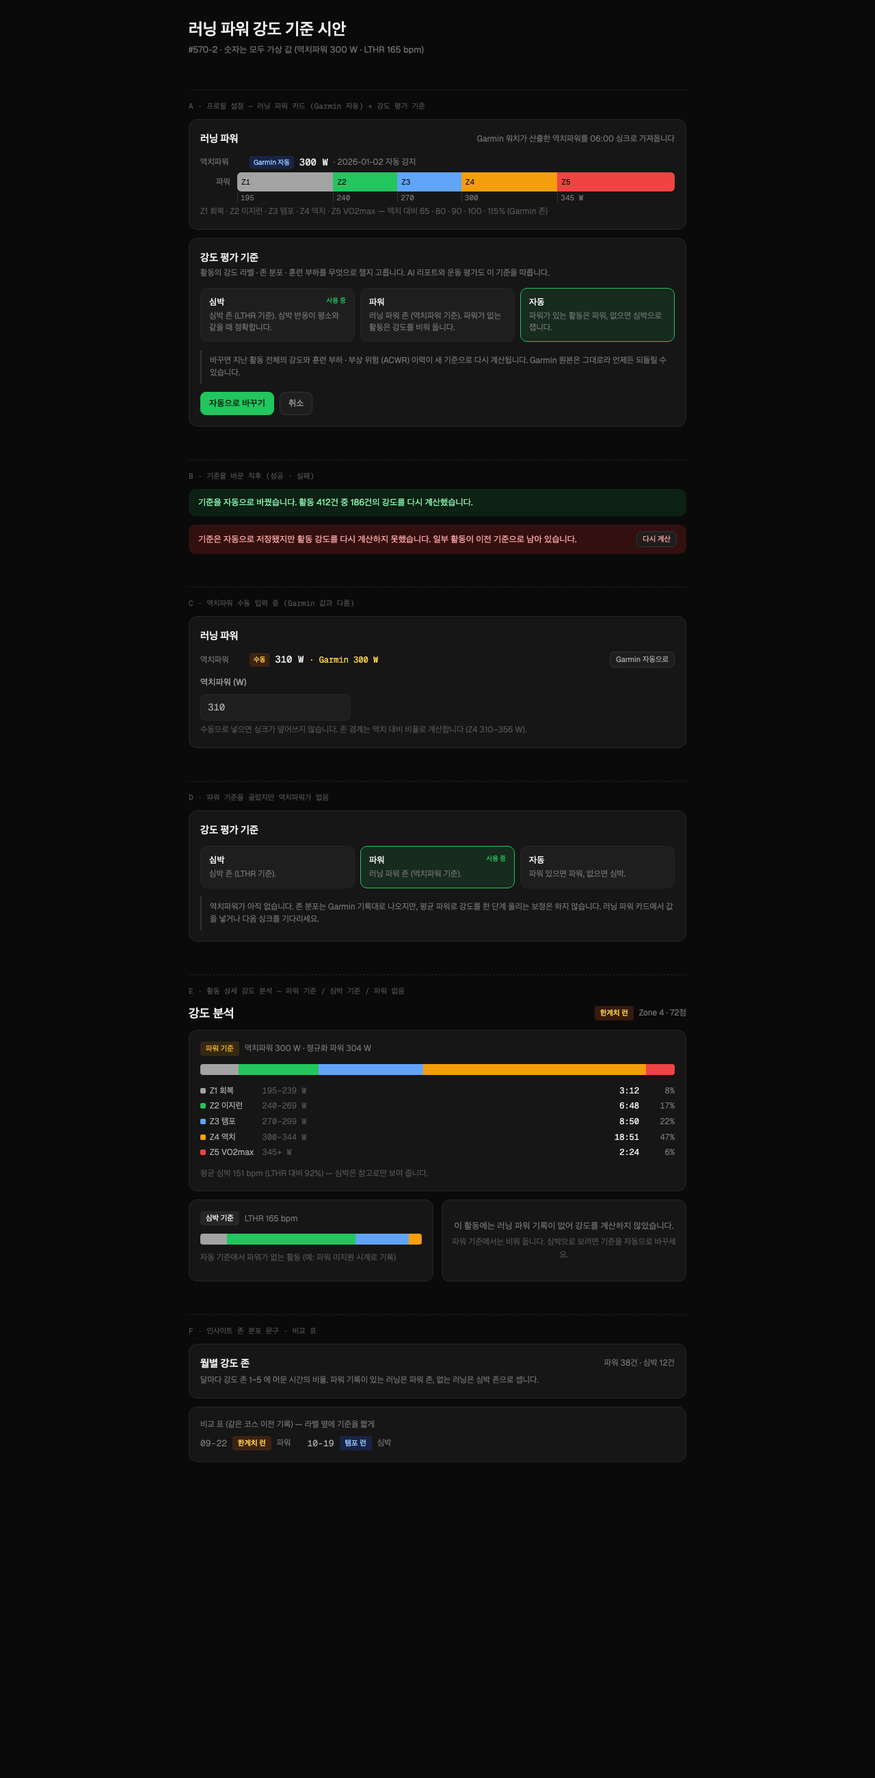
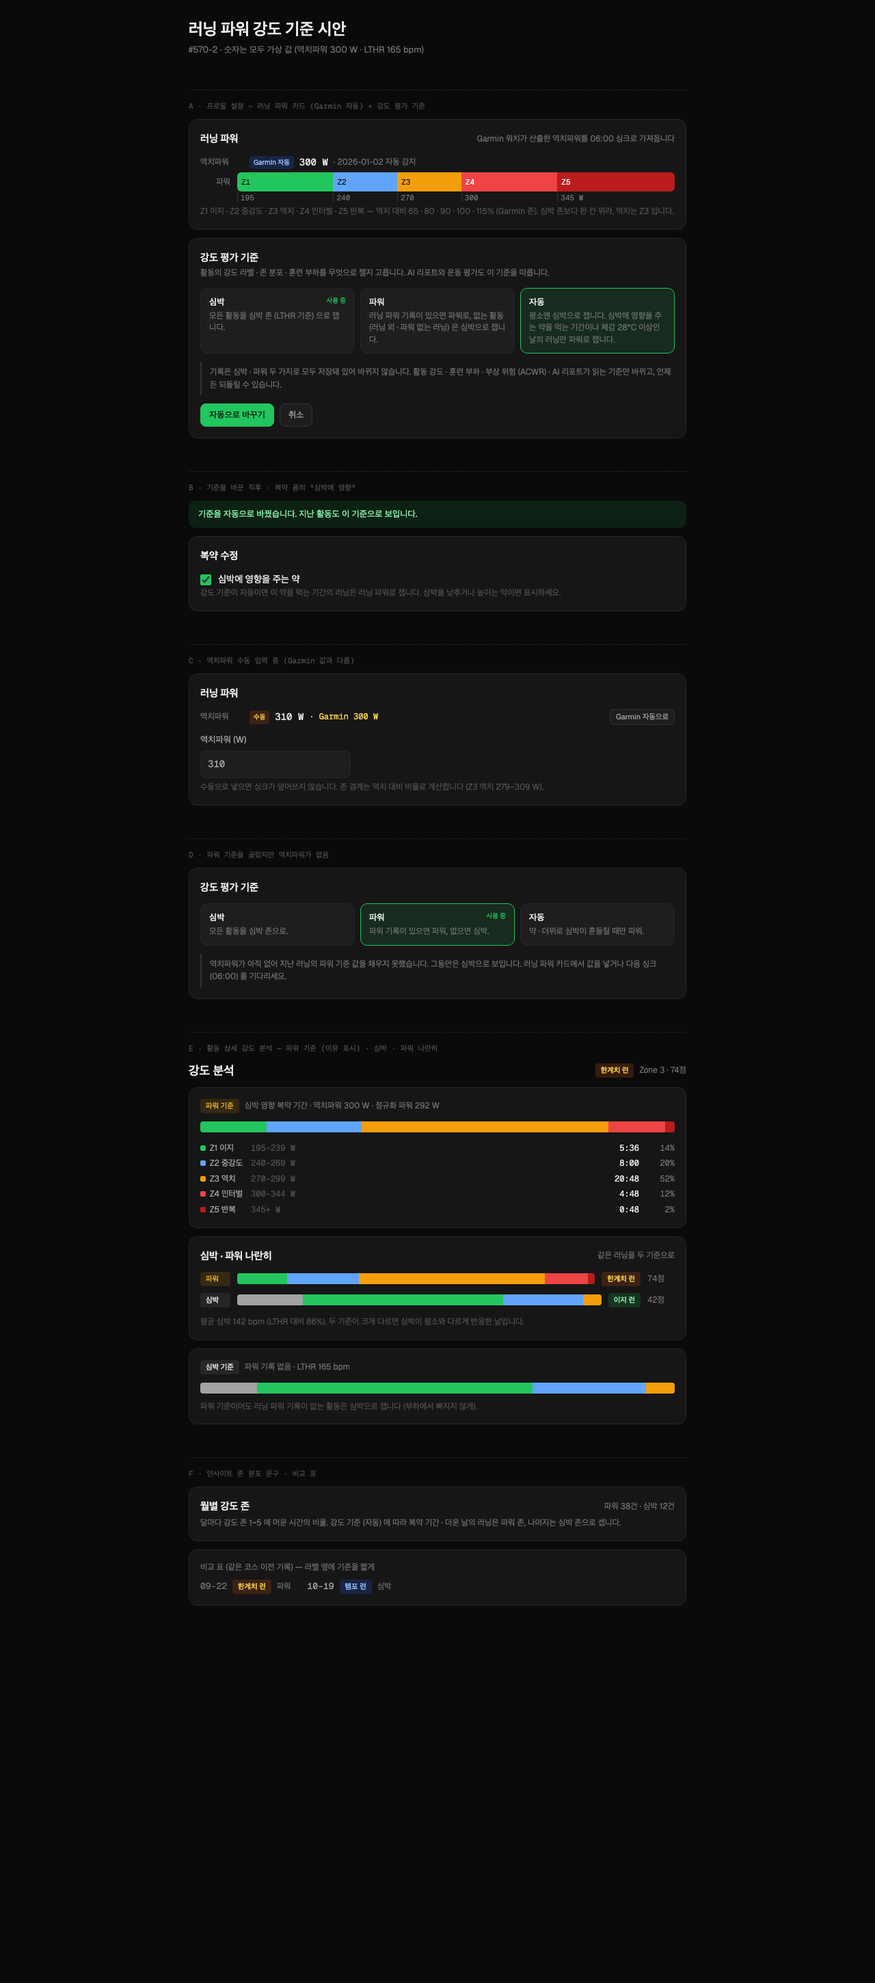
docs(design): 시안 갱신 — 두 기준 저장 · 파워 우선 · 자동 (복약 · 더위) · 나란히 보기 · 파워 존 의미 색 (#570)
Claude-Session: https://claude.ai/code/session_01KSZE3EkJYig9oqT97tFjun

diff --git a/docs/designs/570-running-power-intensity/preview.html b/docs/designs/570-running-power-intensity/preview.html
@@ -50,12 +50,15 @@
   .ruler .unit { font-size:12px; color:var(--sub); text-align:right; }
   .ruler .bar { display:grid; grid-template-columns:var(--cols); height:28px; border-radius:6px; overflow:hidden; }
   .ruler .seg { position:relative; display:flex; align-items:center; padding-left:6px; font:11px var(--mono); color:#0a0a0a; }
+  .ruler .seg.pz4, .ruler .seg.pz5 { color:#fff; }
   .ruler .seg span { white-space:nowrap; overflow:hidden; }
   .ruler .ticks { display:grid; grid-template-columns:var(--cols); margin-left:54px; font:11px var(--mono); color:var(--sub); }
   .ruler .ticks span { border-left:1px solid var(--border-hover); padding-left:4px; padding-top:2px; }
   .ruler.dim-hr .scale.hr .bar { opacity:.35; }
   .ruler.dim-power .scale.power .bar { opacity:.35; }
-  .z1 { background:var(--z1); } .z2 { background:var(--z2); } .z3 { background:var(--z3); } .z4 { background:var(--z4); } .z5 { background:var(--z5); }
+  .z1 { background:var(--z1); }
+  /* 파워 존은 의미가 심박 존보다 한 칸 위 → 같은 의미 = 같은 색 (파워 Z1 이지 = 심박 Z2 녹색 …) */
+  .pz1 { background:var(--z2); } .pz2 { background:var(--z3); } .pz3 { background:var(--z4); } .pz4 { background:var(--z5); } .pz5 { background:#b91c1c; } .z2 { background:var(--z2); } .z3 { background:var(--z3); } .z4 { background:var(--z4); } .z5 { background:var(--z5); }
 
   /* 기준 선택 */
   .choices { display:grid; grid-template-columns:repeat(3,1fr); gap:8px; }
@@ -82,6 +85,9 @@
   .label { font-size:11px; font-weight:500; padding:2px 8px; border-radius:4px; background:rgba(120,53,15,.4); color:#fcd34d; }
   .empty { text-align:center; padding:28px 12px; color:var(--sub); font-size:13px; }
   .empty p + p { margin-top:4px; font-size:12px; color:var(--dim); }
+  .cmp { display:grid; gap:10px; }
+  .cmp-row { display:grid; grid-template-columns:44px 1fr auto 40px; gap:10px; align-items:center; }
+  @media (max-width:420px){ .cmp-row { grid-template-columns:40px 1fr; } .cmp-row .label, .cmp-row .mono { display:none; } }
   .two { display:grid; grid-template-columns:1fr 1fr; gap:12px; }
   @media (max-width:640px){ .two { grid-template-columns:1fr; } }
 </style>
@@ -110,16 +116,16 @@
         <div class="scale power">
           <span class="unit">파워</span>
           <div class="bar" style="--cols:45fr 30fr 30fr 45fr 55fr">
-            <div class="seg z1"><span>Z1</span></div>
-            <div class="seg z2"><span>Z2</span></div>
-            <div class="seg z3"><span>Z3</span></div>
-            <div class="seg z4"><span>Z4</span></div>
-            <div class="seg z5"><span>Z5</span></div>
+            <div class="seg pz1"><span>Z1</span></div>
+            <div class="seg pz2"><span>Z2</span></div>
+            <div class="seg pz3"><span>Z3</span></div>
+            <div class="seg pz4"><span>Z4</span></div>
+            <div class="seg pz5"><span>Z5</span></div>
           </div>
         </div>
         <div class="ticks"><span>195</span><span>240</span><span>270</span><span>300</span><span>345 W</span></div>
       </div>
-      <p class="hint">Z1 회복 · Z2 이지런 · Z3 템포 · Z4 역치 · Z5 VO2max — 역치 대비 65 · 80 · 90 · 100 · 115% (Garmin 존)</p>
+      <p class="hint">Z1 이지 · Z2 중강도 · Z3 역치 · Z4 인터벌 · Z5 반복 — 역치 대비 65 · 80 · 90 · 100 · 115% (Garmin 존). 심박 존보다 한 칸 위라, 역치는 Z3 입니다.</p>
     </section>
 
     <section class="card stack" aria-labelledby="basis-h">
@@ -128,20 +134,24 @@
         <p class="muted" style="margin-top:2px">활동의 강도 라벨 · 존 분포 · 훈련 부하를 무엇으로 잴지 고릅니다. AI 리포트와 운동 평가도 이 기준을 따릅니다.</p>
       </div>
       <div class="choices" role="radiogroup" aria-label="강도 평가 기준">
-        <label class="choice"><input type="radio" name="b1" checked><span class="now">사용 중</span><b>심박</b><small>심박 존 (LTHR 기준). 심박 반응이 평소와 같을 때 정확합니다.</small></label>
-        <label class="choice"><input type="radio" name="b1"><b>파워</b><small>러닝 파워 존 (역치파워 기준). 파워가 없는 활동은 강도를 비워 둡니다.</small></label>
-        <label class="choice on"><input type="radio" name="b1"><b>자동</b><small>파워가 있는 활동은 파워, 없으면 심박으로 잽니다.</small></label>
+        <label class="choice"><input type="radio" name="b1" checked><span class="now">사용 중</span><b>심박</b><small>모든 활동을 심박 존 (LTHR 기준) 으로 잽니다.</small></label>
+        <label class="choice"><input type="radio" name="b1"><b>파워</b><small>러닝 파워 기록이 있으면 파워로, 없는 활동 (러닝 외 · 파워 없는 러닝) 은 심박으로 잽니다.</small></label>
+        <label class="choice on"><input type="radio" name="b1"><b>자동</b><small>평소엔 심박으로 잽니다. 심박에 영향을 주는 약을 먹는 기간이나 체감 28°C 이상인 날의 러닝만 파워로 잽니다.</small></label>
       </div>
-      <p class="consequence">바꾸면 지난 활동 전체의 강도와 훈련 부하 · 부상 위험 (ACWR) 이력이 새 기준으로 다시 계산됩니다. Garmin 원본은 그대로라 언제든 되돌릴 수 있습니다.</p>
+      <p class="consequence">기록은 심박 · 파워 두 가지로 모두 저장돼 있어 바뀌지 않습니다. 활동 강도 · 훈련 부하 · 부상 위험 (ACWR) · AI 리포트가 읽는 기준만 바뀌고, 언제든 되돌릴 수 있습니다.</p>
       <div class="row"><button class="btn primary">자동으로 바꾸기</button><button class="btn">취소</button></div>
     </section>
   </div>
 
   <!-- ───────────── B ───────────── -->
-  <div class="state">B · 기준을 바꾼 직후 (성공 · 실패)</div>
+  <div class="state">B · 기준을 바꾼 직후 · 복약 폼의 "심박에 영향"</div>
   <div class="stack">
-    <div class="toast ok" role="status">기준을 자동으로 바꿨습니다. 활동 412건 중 186건의 강도를 다시 계산했습니다.</div>
-    <div class="toast err" role="alert">기준은 자동으로 저장됐지만 활동 강도를 다시 계산하지 못했습니다. 일부 활동이 이전 기준으로 남아 있습니다.<button class="btn small">다시 계산</button></div>
+    <div class="toast ok" role="status">기준을 자동으로 바꿨습니다. 지난 활동도 이 기준으로 보입니다.</div>
+    <section class="card stack">
+      <h2>복약 수정</h2>
+      <label class="row" style="gap:10px;cursor:pointer"><input type="checkbox" checked style="width:16px;height:16px;accent-color:var(--accent)"><span style="color:var(--bright)">심박에 영향을 주는 약</span></label>
+      <p class="hint" style="margin-top:0">강도 기준이 자동이면 이 약을 먹는 기간의 러닝은 러닝 파워로 잽니다. 심박을 낮추거나 높이는 약이면 표시하세요.</p>
+    </section>
   </div>
 
   <!-- ───────────── C ───────────── -->
@@ -158,7 +168,7 @@
     <div class="field">
       <label for="ftp">역치파워 (W)</label>
       <input id="ftp" type="number" value="310" min="50" max="1000">
-      <p class="hint">수동으로 넣으면 싱크가 덮어쓰지 않습니다. 존 경계는 역치 대비 비율로 계산합니다 (Z4 310–356 W).</p>
+      <p class="hint">수동으로 넣으면 싱크가 덮어쓰지 않습니다. 존 경계는 역치 대비 비율로 계산합니다 (Z3 역치 279–309 W).</p>
     </div>
   </section>
 
@@ -167,45 +177,47 @@
   <section class="card stack">
     <h2>강도 평가 기준</h2>
     <div class="choices">
-      <label class="choice"><input type="radio" name="b2"><b>심박</b><small>심박 존 (LTHR 기준).</small></label>
-      <label class="choice on"><input type="radio" name="b2" checked><span class="now">사용 중</span><b>파워</b><small>러닝 파워 존 (역치파워 기준).</small></label>
-      <label class="choice"><input type="radio" name="b2"><b>자동</b><small>파워 있으면 파워, 없으면 심박.</small></label>
+      <label class="choice"><input type="radio" name="b2"><b>심박</b><small>모든 활동을 심박 존으로.</small></label>
+      <label class="choice on"><input type="radio" name="b2" checked><span class="now">사용 중</span><b>파워</b><small>파워 기록이 있으면 파워, 없으면 심박.</small></label>
+      <label class="choice"><input type="radio" name="b2"><b>자동</b><small>약 · 더위로 심박이 흔들릴 때만 파워.</small></label>
     </div>
-    <p class="consequence warn">역치파워가 아직 없습니다. 존 분포는 Garmin 기록대로 나오지만, 평균 파워로 강도를 한 단계 올리는 보정은 하지 않습니다. 러닝 파워 카드에서 값을 넣거나 다음 싱크를 기다리세요.</p>
+    <p class="consequence warn">역치파워가 아직 없어 지난 러닝의 파워 기준 값을 채우지 못했습니다. 그동안은 심박으로 보입니다. 러닝 파워 카드에서 값을 넣거나 다음 싱크 (06:00) 를 기다리세요.</p>
   </section>
 
   <!-- ───────────── E ───────────── -->
-  <div class="state">E · 활동 상세 강도 분석 — 파워 기준 / 심박 기준 / 파워 없음</div>
+  <div class="state">E · 활동 상세 강도 분석 — 파워 기준 (이유 표시) · 심박 · 파워 나란히</div>
   <div class="stack">
     <section>
       <div class="row" style="justify-content:space-between;margin-bottom:10px">
         <h2 style="font-size:18px">강도 분석</h2>
-        <div class="row"><span class="label">한계치 런</span><span class="muted">Zone 4 · 72점</span></div>
+        <div class="row"><span class="label">한계치 런</span><span class="muted">Zone 3 · 74점</span></div>
       </div>
       <div class="card">
-        <div class="row" style="margin-bottom:12px"><span class="badge b-basis power">파워 기준</span><span class="muted">역치파워 300 W · 정규화 파워 304 W</span></div>
-        <div class="dist" aria-label="파워 존 분포"><div class="z1" style="width:8%"></div><div class="z2" style="width:17%"></div><div class="z3" style="width:22%"></div><div class="z4" style="width:47%"></div><div class="z5" style="width:6%"></div></div>
+        <div class="row" style="margin-bottom:12px"><span class="badge b-basis power">파워 기준</span><span class="muted">심박 영향 복약 기간 · 역치파워 300 W · 정규화 파워 292 W</span></div>
+        <div class="dist" aria-label="파워 존 분포"><div class="pz1" style="width:14%"></div><div class="pz2" style="width:20%"></div><div class="pz3" style="width:52%"></div><div class="pz4" style="width:12%"></div><div class="pz5" style="width:2%"></div></div>
         <div class="zl">
-          <span><i class="dot z1"></i>Z1 회복</span><span class="rng">195–239 W</span><span class="t">3:12</span><span class="p">8%</span>
-          <span><i class="dot z2"></i>Z2 이지런</span><span class="rng">240–269 W</span><span class="t">6:48</span><span class="p">17%</span>
-          <span><i class="dot z3"></i>Z3 템포</span><span class="rng">270–299 W</span><span class="t">8:50</span><span class="p">22%</span>
-          <span><i class="dot z4"></i>Z4 역치</span><span class="rng">300–344 W</span><span class="t">18:51</span><span class="p">47%</span>
-          <span><i class="dot z5"></i>Z5 VO2max</span><span class="rng">345+ W</span><span class="t">2:24</span><span class="p">6%</span>
+          <span><i class="dot pz1"></i>Z1 이지</span><span class="rng">195–239 W</span><span class="t">5:36</span><span class="p">14%</span>
+          <span><i class="dot pz2"></i>Z2 중강도</span><span class="rng">240–269 W</span><span class="t">8:00</span><span class="p">20%</span>
+          <span><i class="dot pz3"></i>Z3 역치</span><span class="rng">270–299 W</span><span class="t">20:48</span><span class="p">52%</span>
+          <span><i class="dot pz4"></i>Z4 인터벌</span><span class="rng">300–344 W</span><span class="t">4:48</span><span class="p">12%</span>
+          <span><i class="dot pz5"></i>Z5 반복</span><span class="rng">345+ W</span><span class="t">0:48</span><span class="p">2%</span>
         </div>
-        <p class="hint" style="margin-top:12px">평균 심박 151 bpm (LTHR 대비 92%) — 심박은 참고로만 보여 줍니다.</p>
       </div>
     </section>
 
-    <div class="two">
-      <div class="card">
-        <div class="row" style="margin-bottom:12px"><span class="badge b-basis">심박 기준</span><span class="muted">LTHR 165 bpm</span></div>
-        <div class="dist"><div class="z1" style="width:12%"></div><div class="z2" style="width:58%"></div><div class="z3" style="width:24%"></div><div class="z4" style="width:6%"></div></div>
-        <p class="hint" style="margin-top:10px">자동 기준에서 파워가 없는 활동 (예: 파워 미지원 시계로 기록)</p>
+    <section class="card">
+      <div class="row" style="justify-content:space-between;margin-bottom:12px"><h2>심박 · 파워 나란히</h2><span class="muted">같은 러닝을 두 기준으로</span></div>
+      <div class="cmp">
+        <div class="cmp-row"><span class="badge b-basis power">파워</span><div class="dist"><div class="pz1" style="width:14%"></div><div class="pz2" style="width:20%"></div><div class="pz3" style="width:52%"></div><div class="pz4" style="width:12%"></div><div class="pz5" style="width:2%"></div></div><span class="label">한계치 런</span><span class="mono muted">74점</span></div>
+        <div class="cmp-row"><span class="badge b-basis">심박</span><div class="dist"><div class="z1" style="width:18%"></div><div class="z2" style="width:55%"></div><div class="z3" style="width:22%"></div><div class="z4" style="width:5%"></div></div><span class="label" style="background:rgba(20,83,45,.5);color:#86efac">이지 런</span><span class="mono muted">42점</span></div>
       </div>
-      <div class="card empty">
-        <p>이 활동에는 러닝 파워 기록이 없어 강도를 계산하지 않았습니다.</p>
-        <p>파워 기준에서는 비워 둡니다. 심박으로 보려면 기준을 자동으로 바꾸세요.</p>
-      </div>
+      <p class="hint" style="margin-top:12px">평균 심박 142 bpm (LTHR 대비 86%). 두 기준이 크게 다르면 심박이 평소와 다르게 반응한 날입니다.</p>
+    </section>
+
+    <div class="card">
+      <div class="row" style="margin-bottom:12px"><span class="badge b-basis">심박 기준</span><span class="muted">파워 기록 없음 · LTHR 165 bpm</span></div>
+      <div class="dist"><div class="z1" style="width:12%"></div><div class="z2" style="width:58%"></div><div class="z3" style="width:24%"></div><div class="z4" style="width:6%"></div></div>
+      <p class="hint" style="margin-top:10px">파워 기준이어도 러닝 파워 기록이 없는 활동은 심박으로 잽니다 (부하에서 빠지지 않게).</p>
     </div>
   </div>
 
@@ -214,7 +226,7 @@
   <div class="stack">
     <div class="card">
       <div class="row" style="justify-content:space-between"><h2>월별 강도 존</h2><span class="muted">파워 38건 · 심박 12건</span></div>
-      <p class="muted" style="margin-top:4px">달마다 강도 존 1~5 에 머문 시간의 비율. 파워 기록이 있는 러닝은 파워 존, 없는 러닝은 심박 존으로 셉니다.</p>
+      <p class="muted" style="margin-top:4px">달마다 강도 존 1~5 에 머문 시간의 비율. 강도 기준 (자동) 에 따라 복약 기간 · 더운 날의 러닝은 파워 존, 나머지는 심박 존으로 셉니다.</p>
     </div>
     <div class="card">
       <p class="muted">비교 표 (같은 코스 이전 기록) — 라벨 옆에 기준을 짧게</p>

diff --git a/docs/designs/570-running-power-intensity/design-notes.md b/docs/designs/570-running-power-intensity/design-notes.md
@@ -5,11 +5,12 @@
 
 ## 브리프
 
-이 화면에서 사용자가 알아야 할 것은 셋 — **"내 역치파워가 얼마고 어디서 왔나"**, **"강도를 무엇으로 재고 있나"**, **"기준을 바꾸면 무엇이 바뀌나"**. 마지막이 가장 중요하다: 기준 변경은 지난 활동 전체의 강도 · 훈련 부하 · ACWR 이력을 다시 계산하는 일이다.
+이 화면에서 사용자가 알아야 할 것은 셋 — **"내 역치파워가 얼마고 어디서 왔나"**, **"강도를 무엇으로 재고 있나"**, **"이 활동은 왜 그 기준인가"**. 기록은 심박 · 파워 두 가지로 모두 저장되고 (스펙 §2-1), 기준은 읽는 쪽만 바꾼다 — 되돌릴 수 있다는 점을 숨기지 않는다.
 
 ## 제약
 
 기존 화면 언어 그대로 — h1 24px · 카드 12px · Geist / 수치 Geist Mono · 액센트 녹색 · **Garmin 자동 = blue 배지 · 수동 = amber 배지** (`garmin-sync-section.tsx` `SourceBadge`) · 존 색은 활동 상세 `ZONE_META` (회색 · 녹색 · 파랑 · 주황 · 빨강). 새 색은 **파워 기준 배지 = amber-400 계열 (배경 amber-500/14)** 하나 — 심박 기준 배지는 중립 회색. 파워가 "새 기준" 이라는 점만 표시하고 경고처럼 보이지 않게 채도를 낮췄다.
+**파워 존 색은 번호가 아니라 의미로** — 파워 존은 심박 존보다 한 칸 위 (파워 Z1 이지 = 심박 Z2 · 파워 Z3 역치 = 심박 Z4) 라, 파워 Z1 녹색 · Z2 파랑 · Z3 주황 · Z4 빨강 · Z5 진한 빨강. 심박 · 파워 막대를 나란히 놓아도 같은 색 = 같은 강도 (1차 시안은 번호대로 칠해 역치가 파랑으로 보였다).
 
 ## 결정
 
@@ -22,24 +23,24 @@
 - 입력 필드: `역치파워 (W)` · 50~1000 · 힌트에 "수동으로 넣으면 싱크가 덮어쓰지 않는다" + 계산된 Z4 범위.
 
 ### 강도 평가 기준 (A · D)
-- 라디오 카드 3개 (모바일 세로). 각 카드는 이름 + 한 줄 설명 — **파워는 "파워 없는 활동은 비워 둔다"**, 자동은 "파워 있으면 파워, 없으면 심박". 현재 값에 "사용 중" 표시, 고른 값은 녹색 테두리.
-- 바로 아래 **결과 안내** (왼쪽 선): 지난 활동 전체 · 훈련 부하 · ACWR 이 다시 계산되고, Garmin 원본은 그대로라 되돌릴 수 있다.
-- 버튼은 동작 이름 그대로 "**자동으로 바꾸기**" (고른 값에 따라 문구가 바뀐다) · 취소. 사용 중 값을 고르면 버튼 비활성.
-- 파워 · 자동인데 역치파워가 없으면 (D) amber 안내 — 존 분포는 나오지만 보정이 빠진다는 사실 + 할 일 (값 입력 또는 다음 싱크).
+- 라디오 카드 3개 (모바일 세로). 각 카드는 이름 + 한 줄 설명 — 심박 "모든 활동을 심박으로" · **파워 "파워 기록이 있으면 파워, 없는 활동은 심박"** · **자동 "평소엔 심박, 약 · 더위로 심박이 흔들릴 때만 파워"**. 현재 값에 "사용 중", 고른 값은 녹색 테두리.
+- 바로 아래 **결과 안내** (왼쪽 선): 기록은 두 기준 모두 저장돼 바뀌지 않고, 읽는 기준만 바뀐다 · 되돌릴 수 있다.
+- 버튼 "**자동으로 바꾸기**" (고른 값에 따라 문구) · 취소. 별도 카드 · 별도 버튼인 이유: 프로필 폼 저장과 섞으면 무엇이 바뀌는지 흐려진다.
+- 역치파워가 없으면 (D) amber 안내 — 지난 러닝의 파워 값을 아직 못 채워 그동안 심박으로 보인다 + 할 일 (값 입력 또는 다음 06:00 싱크).
 
-### 결과 (B)
-- 성공: "기준을 자동으로 바꿨습니다. 활동 N건 중 M건의 강도를 다시 계산했습니다." (API `recomputed` · 전체 수는 응답에 추가 — 570-2 구현 시 `recomputeTotal`)
-- 실패: 무엇이 저장됐고 무엇이 안 됐는지 + **다시 계산** 버튼 (API `recomputeIntensity: true`). 사과하지 않는다.
+### 결과 · 복약 (B)
+- 성공 토스트: "기준을 자동으로 바꿨습니다. 지난 활동도 이 기준으로 보입니다." (재계산이 없어 실패 상태도 없다)
+- 복약 폼에 **"심박에 영향을 주는 약"** 체크 + 한 줄 (자동 기준이 이 기간 러닝을 파워로 잰다). 약 이름 · 효능 판단은 하지 않는다 — 사용자가 표시.
 
 ### 활동 상세 강도 분석 (E)
-- 카드 상단에 **기준 배지** (파워 기준 / 심박 기준) + 그 기준의 역치 (파워면 정규화 파워 병기).
-- 존 목록에 경계 범위 열 추가 (W 또는 bpm) — 같은 Z4 라도 무엇으로 쟀는지 보이게. 존 이름은 파워면 "템포", 심박이면 "에어로빅" (Z3 · 스펙 M3 과 같다).
-- 파워 기준이면 아래 한 줄 "평균 심박 N bpm (LTHR 대비 N%) — 심박은 참고로만" — 심박이 낮게 나와도 강도 라벨이 왜 높은지 이해되게.
-- 파워 기준에서 파워 없는 활동: 빈 상태 + 할 일 ("심박으로 보려면 기준을 자동으로").
+- 카드 상단에 **기준 배지** (파워 기준 / 심박 기준) + **고른 이유** (심박 영향 복약 기간 · 더위 · 파워 기록 없음) + 역치 · 정규화 파워.
+- 존 목록에 경계 범위 열 (W 또는 bpm). 파워 존 이름 = 이지 · 중강도 · 역치 · 인터벌 · 반복.
+- **심박 · 파워 나란히** — 두 값이 다 있는 러닝에만. 두 막대 + 각 라벨 · 점수 + 평균 심박 한 줄 ("두 기준이 크게 다르면 심박이 평소와 다르게 반응한 날"). 모바일은 라벨 · 점수를 숨기고 막대만.
+- 파워 기준이어도 파워 기록이 없는 활동은 심박 배지 + "파워 기록 없음" (빈 상태 없음 — 스펙 §2-2 폴백).
 
 ### 인사이트 · 비교 표 (F)
-- 제목 "HR Zone 분포" · "심박 존 1~5" → **"강도 존"** + 오른쪽에 기준별 건수 ("파워 38건 · 심박 12건"). 한 기준만이면 그 기준 이름만.
+- 제목 "HR Zone 분포" · "심박 존 1~5" → **"강도 존"** + 오른쪽에 기준별 건수 ("파워 38건 · 심박 12건") + 설명에 현재 기준 규칙 한 줄. 한 기준만이면 그 기준 이름만.
 - 같은 코스 비교 표: 라벨 옆에 기준을 짧게 (파워 / 심박) — 기준이 다른 두 기록의 라벨을 같은 잣대로 오해하지 않게.
 
 ### 하지 않는 것
-- 심박 · 파워 분포 나란히 보기 (스펙 §7) · 존 경계 직접 편집 · `RunningAnalysis` "HR존 분포" 카드 변경 (평균 심박 기반 카드라 그대로 · U5).
+- 존 경계 직접 편집 · `RunningAnalysis` "HR존 분포" 카드 변경 (평균 심박 기반 카드라 그대로 · U6).
